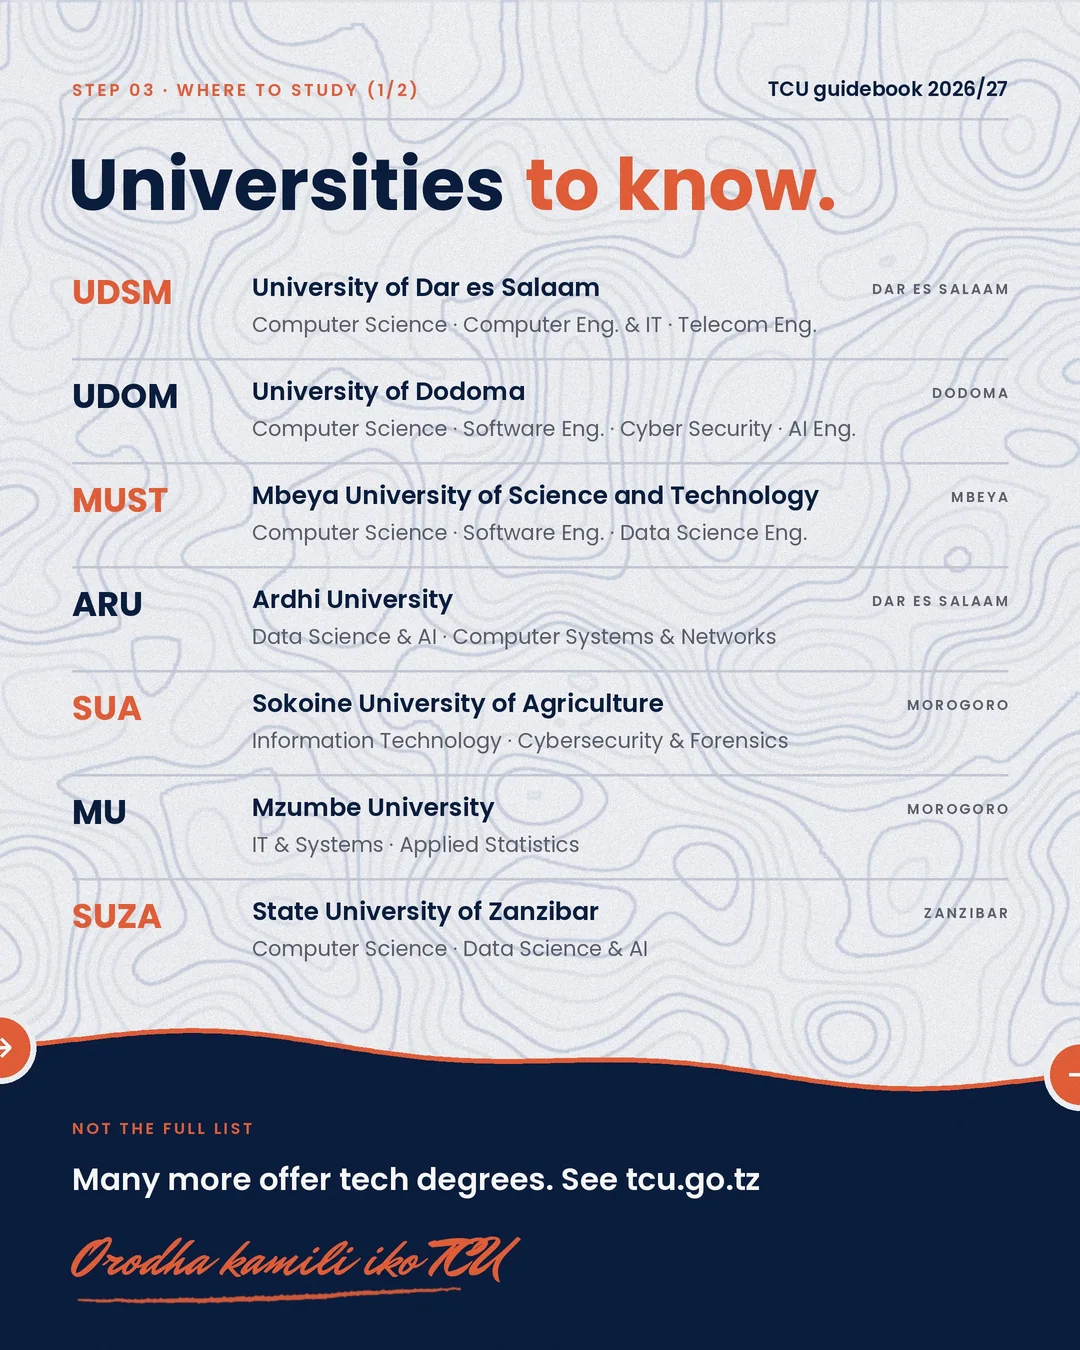
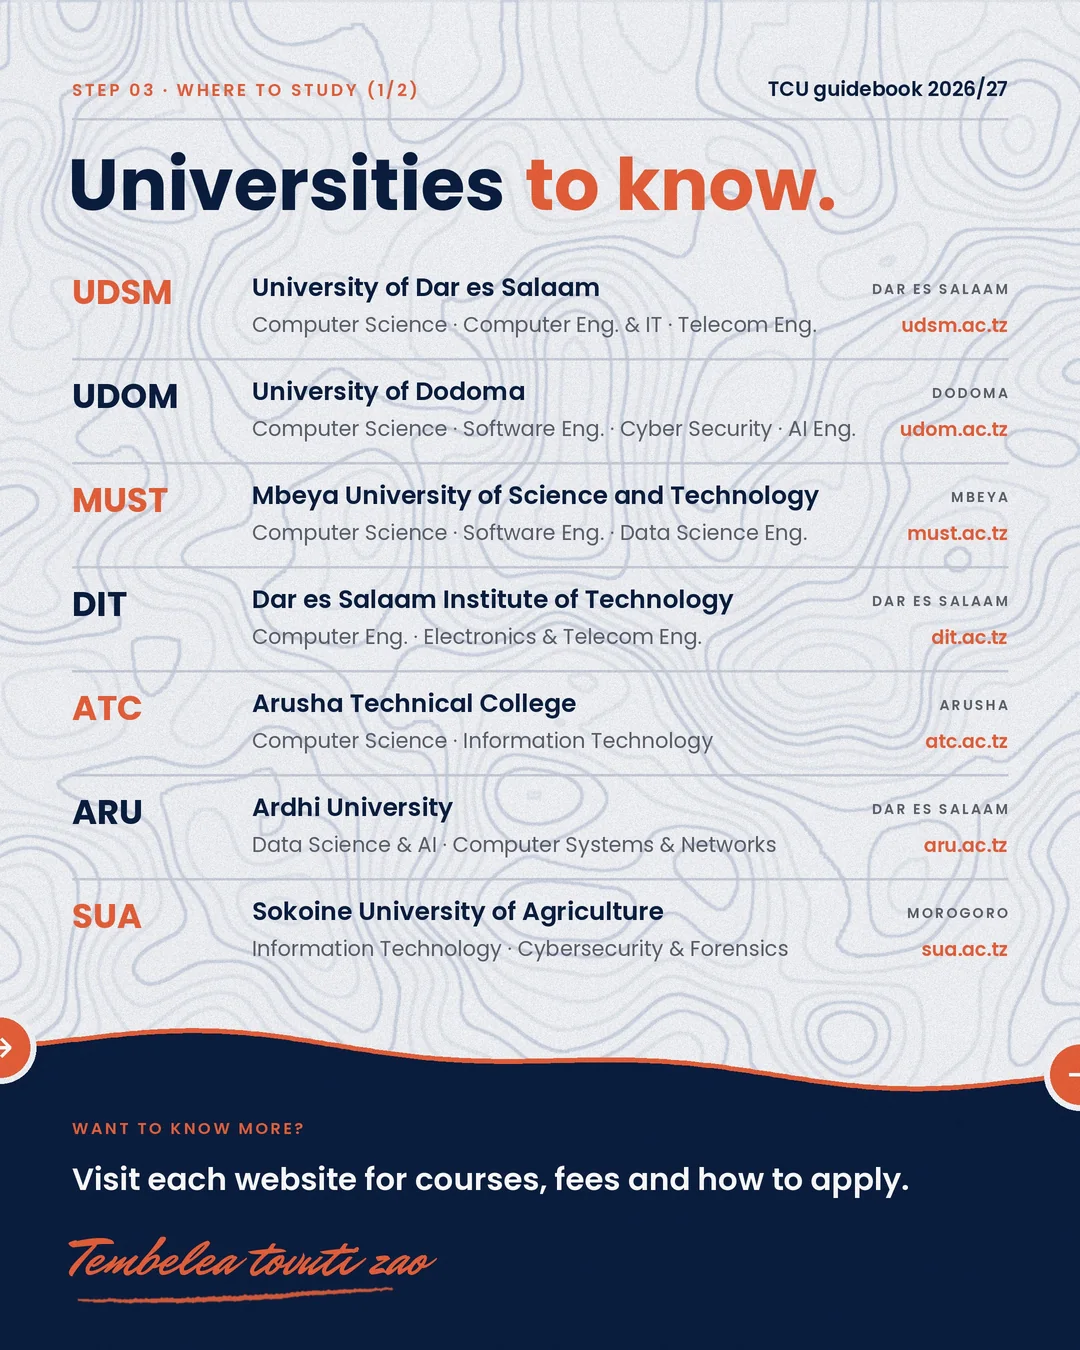
Choose your tech course: DIT and ATC on the universities slide, websites for every institution

diff --git a/studio/choose-your-tech-course/make.py b/studio/choose-your-tech-course/make.py
@@ -83,20 +83,20 @@ COURSES = [
 ]
 
 UNIS = [
-    [("UDSM", "University of Dar es Salaam", "Dar es Salaam", "Computer Science · Computer Eng. & IT · Telecom Eng."),
-     ("UDOM", "University of Dodoma", "Dodoma", "Computer Science · Software Eng. · Cyber Security · AI Eng."),
-     ("MUST", "Mbeya University of Science and Technology", "Mbeya", "Computer Science · Software Eng. · Data Science Eng."),
-     ("ARU", "Ardhi University", "Dar es Salaam", "Data Science & AI · Computer Systems & Networks"),
-     ("SUA", "Sokoine University of Agriculture", "Morogoro", "Information Technology · Cybersecurity & Forensics"),
-     ("MU", "Mzumbe University", "Morogoro", "IT & Systems · Applied Statistics"),
-     ("SUZA", "State University of Zanzibar", "Zanzibar", "Computer Science · Data Science & AI")],
-    [("IFM", "Institute of Finance Management", "Dar es Salaam", "Computer Science · Cyber Security · IT"),
-     ("DIT", "Dar es Salaam Institute of Technology", "Dar es Salaam", "Computer Eng. · Electronics & Telecom Eng."),
-     ("NIT", "National Institute of Transport", "Dar es Salaam", "Computer Science · Information Technology"),
-     ("IAA", "Institute of Accountancy Arusha", "Arusha", "Computer Science · IT · Cyber Security"),
-     ("EASTC", "Eastern Africa Statistical Training Centre", "Dar es Salaam", "Data Science · Statistics"),
-     ("SJCET", "St. Joseph College of Engineering & Tech.", "Dar es Salaam", "AI & Machine Learning · Computer Science"),
-     ("ATC", "Arusha Technical College", "Arusha", "Computer Science · Information Technology")],
+    [("UDSM", "University of Dar es Salaam", "Dar es Salaam", "Computer Science · Computer Eng. & IT · Telecom Eng.", "udsm.ac.tz"),
+     ("UDOM", "University of Dodoma", "Dodoma", "Computer Science · Software Eng. · Cyber Security · AI Eng.", "udom.ac.tz"),
+     ("MUST", "Mbeya University of Science and Technology", "Mbeya", "Computer Science · Software Eng. · Data Science Eng.", "must.ac.tz"),
+     ("DIT", "Dar es Salaam Institute of Technology", "Dar es Salaam", "Computer Eng. · Electronics & Telecom Eng.", "dit.ac.tz"),
+     ("ATC", "Arusha Technical College", "Arusha", "Computer Science · Information Technology", "atc.ac.tz"),
+     ("ARU", "Ardhi University", "Dar es Salaam", "Data Science & AI · Computer Systems & Networks", "aru.ac.tz"),
+     ("SUA", "Sokoine University of Agriculture", "Morogoro", "Information Technology · Cybersecurity & Forensics", "sua.ac.tz")],
+    [("MU", "Mzumbe University", "Morogoro", "IT & Systems · Applied Statistics", "mzumbe.ac.tz"),
+     ("SUZA", "State University of Zanzibar", "Zanzibar", "Computer Science · Data Science & AI", "suza.ac.tz"),
+     ("IFM", "Institute of Finance Management", "Dar es Salaam", "Computer Science · Cyber Security · IT", "ifm.ac.tz"),
+     ("NIT", "National Institute of Transport", "Dar es Salaam", "Computer Science · Information Technology", "nit.ac.tz"),
+     ("IAA", "Institute of Accountancy Arusha", "Arusha", "Computer Science · IT · Cyber Security", "iaa.ac.tz"),
+     ("EASTC", "Eastern Africa Statistical Training Centre", "Dar es Salaam", "Data Science · Statistics", "eastc.ac.tz"),
+     ("SJCET", "St. Joseph College of Engineering & Tech.", "Dar es Salaam", "AI & Machine Learning · Computer Science", "sjuit.ac.tz")],
 ]
 
 
@@ -198,23 +198,26 @@ for p, group in enumerate(COURSES):
 for p, group in enumerate(UNIS):
     n = p + 5
     s = page(n, f"Step 03 · Where to study ({p + 1}/2)", "TCU guidebook 2026/27")
-    s.text(M - 4, 210, "Universities" if p == 0 else "Institutes &", f(BOLD, 72), NAVY)
-    s.text(M - 4 + s.width("Universities" if p == 0 else "Institutes &", f(BOLD, 72)) + 20, 210,
-           "to know." if p == 0 else "colleges.", f(BOLD, 72), ORANGE)
+    t1, t2 = ("Universities", "to know.") if p == 0 else ("More places", "to study.")
+    ts = min(72, fit(s, t1 + " " + t2, BOLD, 72, W - 2 * M))
+    s.text(M - 4, 210, t1, f(BOLD, ts), NAVY)
+    s.text(M - 4 + s.width(t1, f(BOLD, ts)) + 20, 210, t2, f(BOLD, ts), ORANGE)
     y = 300
-    for j, (abbr, name, city, courses) in enumerate(group):
+    for j, (abbr, name, city, courses, site) in enumerate(group):
         s.text(M, y + 4, abbr, f(BOLD, fit(s, abbr, BOLD, 34, 150)), ORANGE if j % 2 == 0 else NAVY)
         cw_ = smallcaps(s, W - M, y - 6, city, 14, GREY, anchor="right")
         s.text(M + 180, y - 4, name, f(SEMI, fit(s, name, SEMI, 25, W - 2 * M - 180 - cw_ - 20)), NAVY)
-        s.text(M + 180, y + 32, courses, f(REG, fit(s, courses, REG, 21, W - 2 * M - 180)), GREY)
+        s.text(W - M, y + 32, site, f(SEMI, 19), ORANGE, anchor="rs")
+        sw_ = s.width(site, f(SEMI, 19))
+        s.text(M + 180, y + 32, courses, f(REG, fit(s, courses, REG, 21, W - 2 * M - 180 - sw_ - 24)), GREY)
         if j < len(group) - 1:
             hairline(s, M, W - M, y + 58, RULE)
         y += 104
     horizon(s, n)
     if p == 0:
-        navy_note(s, "Not the full list", "Many more offer tech degrees. See tcu.go.tz", "Orodha kamili iko TCU", seed=n)
+        navy_note(s, "Want to know more?", "Visit each website for courses, fees and how to apply.", "Tembelea tovuti zao", seed=n)
     else:
-        navy_note(s, "Form Four leaver?", "Many colleges also run diplomas. Check NACTVET.", "Diploma pia ni njia", seed=n)
+        navy_note(s, "Not the full list", "Full list: tcu.go.tz (degrees) · nactvet.go.tz (diplomas)", "Orodha kamili iko TCU na NACTVET", seed=n)
     finish(s)
     s.save(n)
 

diff --git a/src/content/blog/choose-your-tech-course.md b/src/content/blog/choose-your-tech-course.md
@@ -10,8 +10,8 @@ slides:
   - "Step 01 · Two roads, same destination: a diploma after Form Four or a degree after Form Six. Njia zote zinafika."
   - "Step 02 · Which course fits you? Computer Science, Software Engineering, Information Technology, Data Science & AI."
   - "Step 02 · More courses: Cyber Security, Computer Engineering, Networks & Telecom, Business IT."
-  - "Step 03 · Universities to know: UDSM, UDOM, MUST, Ardhi, SUA, Mzumbe, SUZA."
-  - "Step 03 · Institutes and colleges: IFM, DIT, NIT, IAA, EASTC, St. Joseph, Arusha Technical College."
+  - "Step 03 · Universities to know: UDSM, UDOM, MUST, DIT, ATC, Ardhi, SUA. Visit their websites to learn more."
+  - "Step 03 · More places to study: Mzumbe, SUZA, IFM, NIT, IAA, EASTC, St. Joseph."
   - "Step 04 · Maths opens most doors. Match your A-Level combination with the TCU guidebook. Hesabu ni ufunguo."
   - "Step 05 · Research the place before you apply. Chunguza kabla ya kuchagua."
   - "Step 06 · My story: Division I in Form Four, and I chose a Computer Science diploma at MUST. Uamuzi ni wako, si wa watu."
@@ -44,27 +44,27 @@ Don't judge a course by its name: read the modules. Not sure yet? Computer Scien
 
 ## Step 3: Know where to study
 
-From the [TCU Bachelor's Degree Admission Guidebook 2026/2027](https://tcu.go.tz) (a selection, not the full list):
+From the [TCU Bachelor's Degree Admission Guidebook 2026/2027](https://www.tcu.go.tz) (a selection, not the full list). Click a website to see courses, fees and how to apply.
 
-**Universities**
-- **UDSM**, University of Dar es Salaam (Dar es Salaam): Computer Science, Computer Engineering & IT, Telecommunications Engineering
-- **UDOM**, University of Dodoma (Dodoma): Computer Science, Software Engineering, Cyber Security & Digital Forensics, AI Engineering
-- **MUST**, Mbeya University of Science and Technology (Mbeya): Computer Science, Software Engineering, Data Science Engineering
-- **ARU**, Ardhi University (Dar es Salaam): Data Science & AI, Computer Systems & Networks
-- **SUA**, Sokoine University of Agriculture (Morogoro): Information Technology, Cybersecurity & Digital Forensics
-- **MU**, Mzumbe University (Morogoro): IT & Systems, Applied Statistics
-- **SUZA**, State University of Zanzibar (Zanzibar): Computer Science, Data Science & AI
+**Universities to know**
+- **UDSM**, University of Dar es Salaam (Dar es Salaam): Computer Science, Computer Engineering & IT, Telecommunications Engineering. Website: [udsm.ac.tz](https://udsm.ac.tz)
+- **UDOM**, University of Dodoma (Dodoma): Computer Science, Software Engineering, Cyber Security & Digital Forensics, AI Engineering. Website: [udom.ac.tz](https://udom.ac.tz)
+- **MUST**, Mbeya University of Science and Technology (Mbeya): Computer Science, Software Engineering, Data Science Engineering. Website: [must.ac.tz](https://must.ac.tz)
+- **DIT**, Dar es Salaam Institute of Technology (Dar es Salaam): Computer Engineering, Electronics & Telecommunication Engineering. Website: [dit.ac.tz](https://dit.ac.tz)
+- **ATC**, Arusha Technical College (Arusha): Computer Science, Information Technology. Website: [atc.ac.tz](https://atc.ac.tz)
+- **ARU**, Ardhi University (Dar es Salaam): Data Science & AI, Computer Systems & Networks. Website: [aru.ac.tz](https://aru.ac.tz)
+- **SUA**, Sokoine University of Agriculture (Morogoro): Information Technology, Cybersecurity & Digital Forensics. Website: [sua.ac.tz](https://sua.ac.tz)
 
-**Institutes and colleges**
-- **IFM**, Institute of Finance Management (Dar es Salaam): Computer Science, Cyber Security, IT
-- **DIT**, Dar es Salaam Institute of Technology (Dar es Salaam): Computer Engineering, Electronics & Telecommunication Engineering
-- **NIT**, National Institute of Transport (Dar es Salaam): Computer Science, Information Technology
-- **IAA**, Institute of Accountancy Arusha (Arusha): Computer Science, IT, Cyber Security
-- **EASTC**, Eastern Africa Statistical Training Centre (Dar es Salaam): Data Science, Statistics
-- **SJCET**, St. Joseph University College of Engineering and Technology (Dar es Salaam): AI & Machine Learning, Computer Science
-- **ATC**, Arusha Technical College (Arusha): Computer Science, Information Technology
+**More places to study**
+- **MU**, Mzumbe University (Morogoro): IT & Systems, Applied Statistics. Website: [mzumbe.ac.tz](https://mzumbe.ac.tz)
+- **SUZA**, State University of Zanzibar (Zanzibar): Computer Science, Data Science & AI. Website: [suza.ac.tz](https://suza.ac.tz)
+- **IFM**, Institute of Finance Management (Dar es Salaam): Computer Science, Cyber Security, IT. Website: [ifm.ac.tz](https://ifm.ac.tz)
+- **NIT**, National Institute of Transport (Dar es Salaam): Computer Science, Information Technology. Website: [nit.ac.tz](https://nit.ac.tz)
+- **IAA**, Institute of Accountancy Arusha (Arusha): Computer Science, IT, Cyber Security. Website: [iaa.ac.tz](https://iaa.ac.tz)
+- **EASTC**, Eastern Africa Statistical Training Centre (Dar es Salaam): Data Science, Statistics. Website: [eastc.ac.tz](https://eastc.ac.tz)
+- **SJCET**, St. Joseph University College of Engineering and Technology (Dar es Salaam): AI & Machine Learning, Computer Science. Website: [sjuit.ac.tz](https://sjuit.ac.tz)
 
-Many of these also run diplomas for Form Four leavers. Check NACTVET.
+Many of these also run diplomas for Form Four leavers. For the full lists, see [tcu.go.tz](https://www.tcu.go.tz) for degrees and [nactvet.go.tz](https://www.nactvet.go.tz) for diplomas. *Tembelea tovuti zao.*
 
 ## Step 4: Check the entry rules
 
